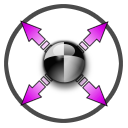
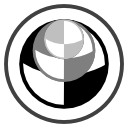
Creating a branch for testing of various visual teleporter tweaks.
git-svn-id: https://s.snth.net/svn/neverball/branches/teleporter-tweaks@2138 78b8d119-cf0a-0410-b17c-f493084dd1d7

diff --git a/ball/game.c b/ball/game.c
@@ -14,6 +14,7 @@
 
 #include <SDL.h>
 #include <math.h>
+#include <stdio.h>
 
 #include "glext.h"
 #include "game.h"
@@ -34,6 +35,9 @@ static int game_state = 0;
 
 static struct s_file file;
 static struct s_file back;
+
+static struct s_file grow_file;
+static struct s_file shrink_file;
 
 static float timer      = 0.f;          /* Clock time                        */
 static int   timer_down = 1;            /* Timer go up or down?              */
@@ -365,6 +369,12 @@ int game_init(const char *file_name, int t, int e)
     sol_load_gl(&back, config_data(back_name),
                 config_get_d(CONFIG_TEXTURES), 0);
 
+    sol_load_gl(&grow_file, config_data("item/grow-item.sol"),
+                config_get_d(CONFIG_TEXTURES), 0);
+    sol_load_gl(&shrink_file, config_data("item/grow-item.sol"),
+                config_get_d(CONFIG_TEXTURES), 0);
+
+
     /* Initialize ball size tracking... */
 
     got_orig = 0;
@@ -379,6 +389,8 @@ void game_free(void)
     {
         sol_free_gl(&file);
         sol_free_gl(&back);
+        sol_free_gl(&grow_file);
+        sol_free_gl(&shrink_file);
         back_free();
     }
     game_state = 0;
@@ -464,7 +476,7 @@ static void game_draw_items(const struct s_file *fp, float t)
                                      fp->hv[hi].p[1],
                                      fp->hv[hi].p[2]);
                         glRotatef(r, 0.0f, 1.0f, 0.0f);
-                        item_draw(&fp->hv[hi], r);
+                        sol_draw(&shrink_file, 0, 1);
                     }
                     glPopMatrix();
                 }
@@ -483,7 +495,7 @@ static void game_draw_items(const struct s_file *fp, float t)
                                      fp->hv[hi].p[1],
                                      fp->hv[hi].p[2]);
                         glRotatef(r, 0.0f, 1.0f, 0.0f);
-                        item_draw(&fp->hv[hi], r);
+                        sol_draw(&grow_file, 0, 1);
                     }
                     glPopMatrix();
                 }
@@ -539,9 +551,28 @@ static void game_draw_goals(const struct s_file *fp, const float *M, float t)
     }
 }
 
-static void game_draw_jumps(const struct s_file *fp)
+static void game_draw_jumps(const struct s_file *fp, const float *M, float t)
 {
     int ji;
+
+    glEnable(GL_TEXTURE_2D);
+    {
+        for (ji = 0; ji < fp->jc; ji++)
+        {
+            glPushMatrix();
+            {
+                glTranslatef(fp->jv[ji].p[0],
+                             fp->jv[ji].p[1],
+                             fp->jv[ji].p[2]);
+
+                part_draw_jump(M, fp->jv[ji].r, goal_k, t);
+            }
+            glPopMatrix();
+        }
+    }
+    glDisable(GL_TEXTURE_2D);
+
+
 
     for (ji = 0; ji < fp->jc; ji++)
     {
@@ -774,7 +805,7 @@ static void game_draw_fore(int pose, const float *M, int d, float t)
             glDisable(GL_TEXTURE_2D);
             {
                 game_draw_goals(&file, M, t);
-                game_draw_jumps(&file);
+                game_draw_jumps(&file, M, t);
                 game_draw_swchs(&file);
             }
             glEnable(GL_TEXTURE_2D);

diff --git a/share/part.c b/share/part.c
@@ -36,7 +36,9 @@ struct part
 
 static struct part part_coin[PART_MAX_COIN];
 static struct part part_goal[PART_MAX_GOAL];
+static struct part part_jump[PART_MAX_GOAL];
 static GLuint      part_text;
+static GLuint      part_text_squiggle;
 static GLuint      part_list;
 
 /*---------------------------------------------------------------------------*/
@@ -84,8 +86,10 @@ void part_init(float h)
 {
     memset(part_coin, 0, PART_MAX_COIN * sizeof (struct part));
     memset(part_goal, 0, PART_MAX_GOAL * sizeof (struct part));
+    memset(part_jump, 0, PART_MAX_GOAL * sizeof (struct part));
 
     part_text = make_image_from_file(IMG_PART);
+    part_text_squiggle = make_image_from_file(IMG_SQUIGGLE);
     part_list = glGenLists(1);
 
     glNewList(part_list, GL_COMPILE);
@@ -214,6 +218,20 @@ static void part_draw(const float *M,
     glPopMatrix();
 }
 
+static void part_draw_squiggles(const float *M,
+                      const float *p, float r, float rz)
+{
+    glPushMatrix();
+    {
+        glTranslatef(r * p[0], p[1], r * p[2]);
+        glMultMatrixf(M);
+        glRotatef(rz, 0.f, 0.f, 0.0f);
+
+        glCallList(part_list);
+    }
+    glPopMatrix();
+}
+
 void part_draw_coin(const float *M, float t)
 {
     int i;
@@ -243,6 +261,19 @@ void part_draw_goal(const float *M, float radius, float a, float t)
     for (i = 0; i < PART_MAX_GOAL; i++)
         if (part_goal[i].t > 0.0f)
             part_draw(M, part_goal[i].p, radius - 0.05f, t * part_goal[i].w);
+}
+
+void part_draw_jump(const float *M, float radius, float a, float t)
+{
+    int i;
+
+    glBindTexture(GL_TEXTURE_2D, part_text_squiggle);
+
+    glColor4f(1.0f, 1.0f, 1.0f, a);
+
+    for (i = 0; i < PART_MAX_GOAL; i++)
+        if (part_goal[i].t > 0.0f)
+            part_draw_squiggles(M, part_goal[i].p, radius - 0.05f, t * part_goal[i].w);
 }
 
 /*---------------------------------------------------------------------------*/

diff --git a/share/part.h b/share/part.h
@@ -4,6 +4,7 @@
 /*---------------------------------------------------------------------------*/
 
 #define IMG_PART "png/part.png"
+#define IMG_SQUIGGLE "png/squiggle.png"
 
 #define PART_MAX_COIN 256
 #define PART_MAX_GOAL  64
@@ -20,6 +21,7 @@ void part_step(const float *, float);
 
 void part_draw_coin(const float *, float);
 void part_draw_goal(const float *, float, float, float);
+void part_draw_jump(const float *, float, float, float);
 
 /*---------------------------------------------------------------------------*/
 

diff --git a/share/geom.c b/share/geom.c
@@ -337,7 +337,7 @@ void jump_init(int b)
                     float x = fcosf(2.f * PI * i / n);
                     float y = fsinf(2.f * PI * i / n);
 
-                    glColor4f(1.0f, 1.0f, 1.0f, (k == 0 ? 0.5f : 0.8f));
+                    glColor4f(0.75f, 0.5f, 1.0f, (k == 0 ? 0.5f : 0.8f));
                     glVertex3f(x, 0.0f, y);
 
                     glColor4f(1.0f, 1.0f, 1.0f, 0.0f);

diff --git a/share/state.c b/share/state.c
@@ -74,6 +74,7 @@ void st_paint(float t)
             state->paint(state->gui_id, t);
         }
     }
+
 }
 
 void st_timer(float dt)
